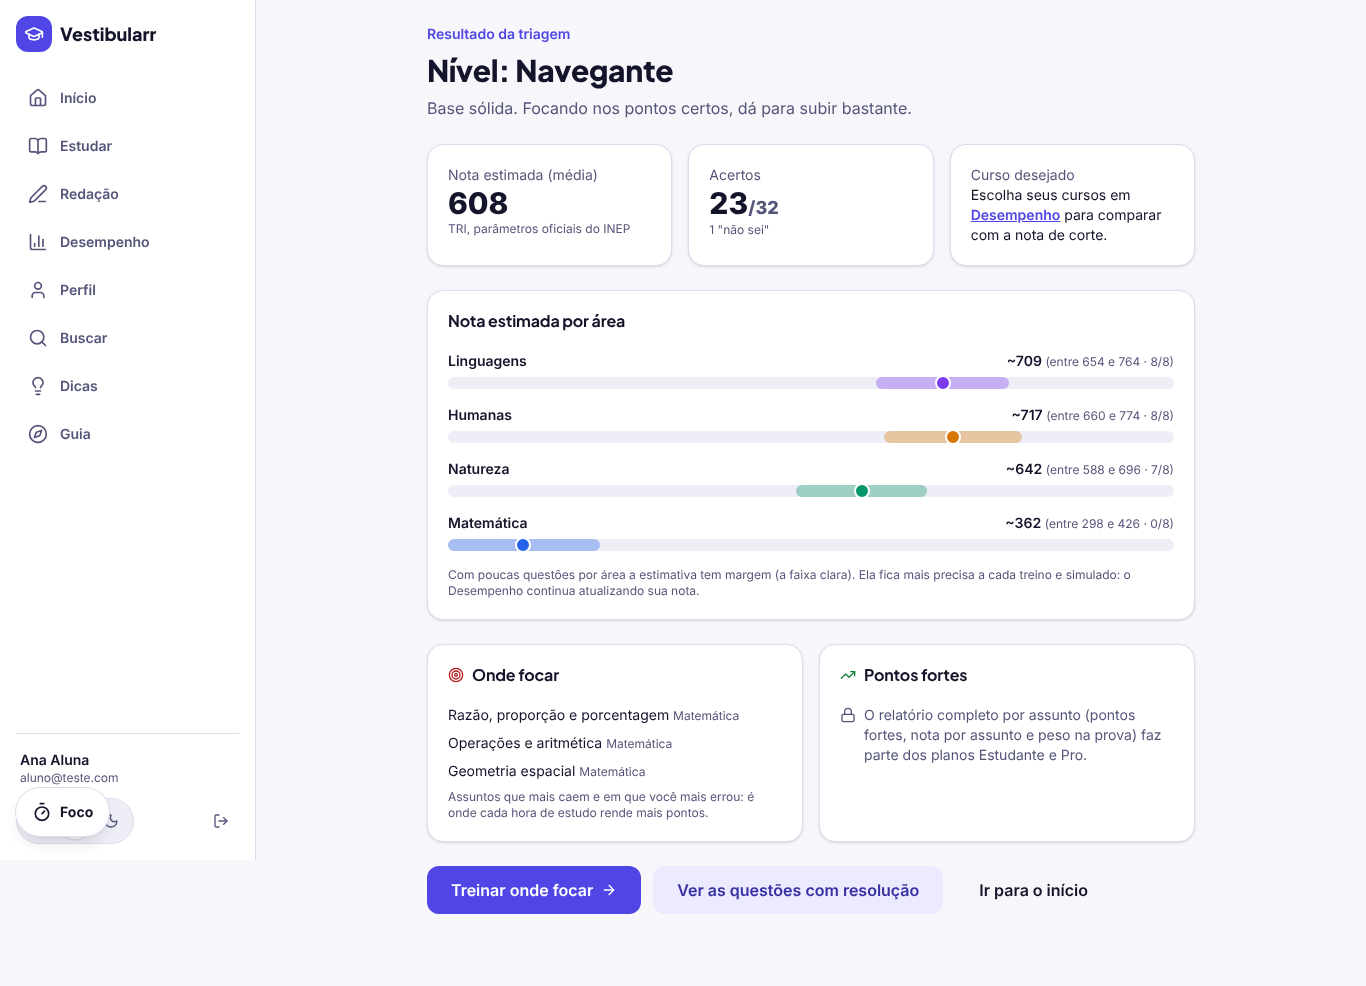
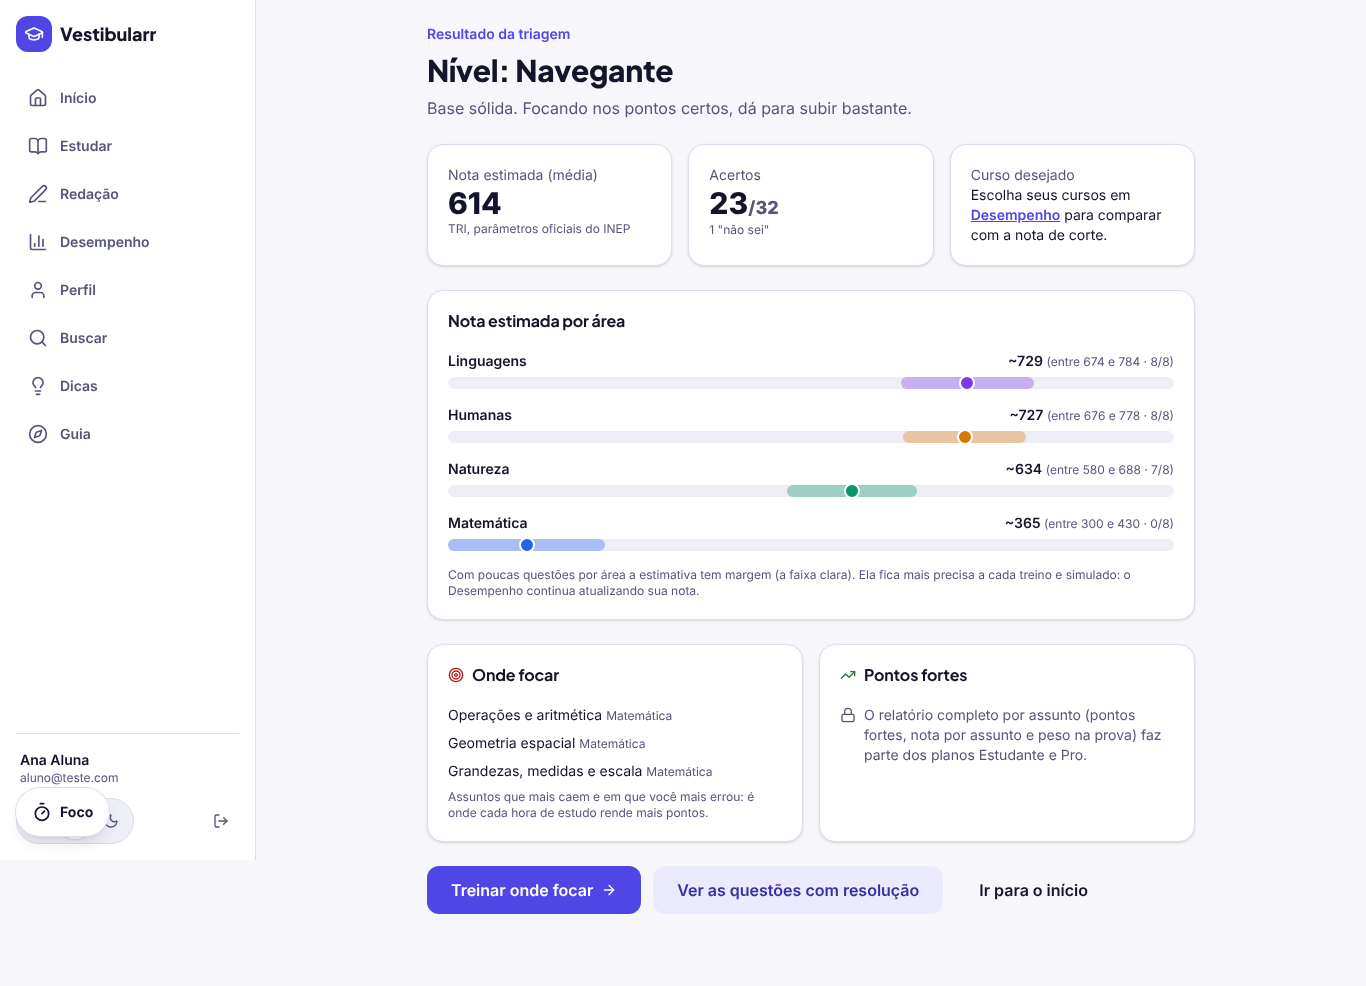
Triagem: não cria nem cobra sem questões calibradas; encerrar sem responder descarta e devolve a cota
- migration 0013: _triagem_available(); triagem_start recusa com triagem_unavailable antes de criar/cobrar;
  triagem_finish sem respostas apaga a tentativa e devolve a cota; limpa triagens vazias já criadas (caso 0/0)
- /triagem avisa quando falta rodar seed:taxonomia; relatório vazio volta para a introdução
- verificar-migracoes.sql também mostra 0013 e quantas questões têm TRI

Claude-Session: https://claude.ai/code/session_01PfeMCgtAxDrZkpFiVMEZAu

diff --git a/src/app/(app)/triagem/page.tsx b/src/app/(app)/triagem/page.tsx
@@ -4,6 +4,7 @@ import Link from "next/link";
 import { Button } from "@/components/ui/button";
 import { Card, CardContent, CardHeader, CardTitle } from "@/components/ui/card";
 import { requireUser } from "@/lib/auth";
+import { createClient } from "@/lib/supabase/server";
 import { getEntitlement, listTriagens } from "@/lib/triagem";
 import { skipTriagemAction, startTriagemAction } from "./actions";
 
@@ -14,10 +15,12 @@ const fmt = (iso: string) => new Date(iso).toLocaleDateString("pt-BR", { day: "2
 export default async function TriagemPage({ searchParams }: { searchParams: Promise<{ erro?: string }> }) {
   const user = await requireUser();
   const { erro } = await searchParams;
-  const [history, ent] = await Promise.all([listTriagens(), getEntitlement("triagem")]);
+  const supabase = await createClient();
+  const [history, ent, { data: available }] = await Promise.all([listTriagens(), getEntitlement("triagem"), supabase.rpc("_triagem_available")]);
   const open = history.find((h) => h.status === "in_progress");
   const done = history.filter((h) => h.status === "finished");
-  const canStart = !!open || !ent || ent.unlimited || (ent.remaining ?? 0) > 0;
+  const ready = available !== false;
+  const canStart = !!open || (ready && (!ent || ent.unlimited || (ent.remaining ?? 0) > 0));
   const first = done.length === 0;
 
   return (
@@ -33,6 +36,12 @@ export default async function TriagemPage({ searchParams }: { searchParams: Prom
       {erro === "limite" && (
         <p role="alert" className="rounded-control bg-warning-soft p-3 text-sm text-warning-soft-foreground">
           Você já usou a triagem deste mês no seu plano. A próxima libera {ent?.resets_at ? `em ${fmt(ent.resets_at)}` : "no mês que vem"}.
+        </p>
+      )}
+      {(erro === "indisponivel" || (!ready && !open)) && (
+        <p role="alert" className="rounded-control bg-warning-soft p-3 text-sm text-warning-soft-foreground">
+          A triagem ainda não está disponível: o banco de questões precisa dos dados da TRI.
+          {user.role === "admin" ? " Rode npm run seed:taxonomia (README → Banco de questões)." : " Avise o administrador."}
         </p>
       )}
       {erro === "falha" && <p role="alert" className="rounded-control bg-danger-soft p-3 text-sm text-danger-soft-foreground">Não foi possível começar agora. Tente de novo.</p>}
@@ -51,7 +60,7 @@ export default async function TriagemPage({ searchParams }: { searchParams: Prom
             <Button type="submit" size="lg" className="w-full sm:w-auto">{open ? "Continuar a triagem" : first ? "Começar a triagem" : "Refazer a triagem"}</Button>
           </form>
         ) : (
-          <Button size="lg" disabled>Triagem do mês já usada</Button>
+          <Button size="lg" disabled>{ready ? "Triagem do mês já usada" : "Triagem indisponível"}</Button>
         )}
         {first && user.role === "student" && (
           <form action={skipTriagemAction}>

diff --git a/tests/db/triagem.test.ts b/tests/db/triagem.test.ts
@@ -96,12 +96,36 @@ describe("triagem adaptativa", () => {
     expect(score).toMatchObject({ total: 2, correct: 1, blank: 1 });
   });
 
+  it("encerrar sem responder nada descarta a triagem e devolve a cota", async () => {
+    const id = await one(caio, "select public.triagem_start() r");
+    const used = async () => (await c.query("select count(*)::int n from usage_events where user_id = $1 and feature = 'triagem'", [caio])).rows[0].n;
+    expect(await used()).toBe(1);
+    expect(await one(caio, "select public.triagem_finish($1) r", [id])).toMatchObject({ status: "discarded" });
+    expect(await used()).toBe(0);
+    expect((await c.query("select count(*)::int n from exam_attempts where id = $1", [id])).rows[0].n).toBe(0);
+  });
+
   it("plano grátis: 1 triagem por mês", async () => {
     const id = await one(caio, "select public.triagem_start() r");
+    const s = await state(caio, id);
+    await one(caio, "select public.triagem_answer($1, $2, 'A') r", [id, s.question_id]);
     await one(caio, "select public.triagem_finish($1) r", [id]);
     await expect(callAs(c, caio, "select public.triagem_start()")).rejects.toThrow(/plan_limit:triagem/);
     const rep = await one(caio, "select public.entitlement('triagem_report') r");
     expect(rep.quota).toBe(0);
+  });
+
+  it("sem questões calibradas (TRI) no banco: recusa antes de criar e de cobrar", async () => {
+    const dani = await createUser(c, "dani@x.com");
+    await c.query("alter table questions add column if not exists irt_b_bak real; update questions set irt_b_bak = irt_b, irt_b = null");
+    try {
+      expect(await one(dani, "select public._triagem_available() r")).toBe(false);
+      await expect(callAs(c, dani, "select public.triagem_start()")).rejects.toThrow(/triagem_unavailable/);
+      const n = (await c.query("select (select count(*) from exam_attempts where user_id = $1)::int a, (select count(*) from usage_events where user_id = $1)::int u", [dani])).rows[0];
+      expect(n).toEqual({ a: 0, u: 0 });
+    } finally {
+      await c.query("update questions set irt_b = irt_b_bak; alter table questions drop column irt_b_bak");
+    }
   });
 
   it("só o dono vê o estado", async () => {

diff --git a/src/app/(app)/triagem/actions.ts b/src/app/(app)/triagem/actions.ts
@@ -13,7 +13,7 @@ const UUID = /^[0-9a-f-]{36}$/i;
 export async function startTriagemAction() {
   await requireUser();
   const { data, error } = await (await createClient()).rpc("triagem_start");
-  if (error) redirect(error.message.includes("plan_limit:triagem") ? "/triagem?erro=limite" : "/triagem?erro=falha");
+  if (error) redirect(error.message.includes("plan_limit:triagem") ? "/triagem?erro=limite" : error.message.includes("triagem_unavailable") ? "/triagem?erro=indisponivel" : "/triagem?erro=falha");
   redirect(`/triagem/${data}`);
 }
 
@@ -43,8 +43,9 @@ export async function answerTriagemAction(id: string, questionId: string, choice
 export async function finishTriagemAction(id: string) {
   await requireUser();
   if (!UUID.test(id)) return;
-  await (await createClient()).rpc("triagem_finish", { p_attempt: id });
-  redirect(`/triagem/${id}/relatorio`);
+  const { data } = await (await createClient()).rpc("triagem_finish", { p_attempt: id });
+  // sem nenhuma resposta a triagem é descartada (e a cota devolvida)
+  redirect((data as { status?: string } | null)?.status === "discarded" ? "/triagem" : `/triagem/${id}/relatorio`);
 }
 
 /** Treino com os assuntos de "Onde focar" (15 questões, gabarito na hora). */

diff --git a/src/lib/triagem.ts b/src/lib/triagem.ts
@@ -27,7 +27,9 @@ export async function listTriagens() {
     .eq("mode", "triagem")
     .order("started_at", { ascending: false })
     .limit(12);
-  return (data ?? []) as { id: string; status: string; started_at: string; finished_at: string | null; score: { total: number; correct: number } | null }[];
+  type Row = { id: string; status: string; started_at: string; finished_at: string | null; score: { total: number; correct: number } | null };
+  // encerradas sem nenhuma questão não contam (não deveriam existir; ver migration 0013)
+  return ((data ?? []) as Row[]).filter((t) => t.status !== "finished" || (t.score?.total ?? 0) > 0);
 }
 
 type QRow = {

diff --git a/src/app/(app)/triagem/[id]/relatorio/page.tsx b/src/app/(app)/triagem/[id]/relatorio/page.tsx
@@ -24,6 +24,7 @@ export default async function TriagemReportPage({ params }: { params: Promise<{ 
   const report = await triagemReport(id);
   if (!report) notFound();
   if (report.attempt.status === "in_progress") redirect(`/triagem/${id}`);
+  if ((report.attempt.score?.total ?? 0) === 0) redirect("/triagem");
 
   const supabase = await createClient();
   const [detail, { data: profile }] = await Promise.all([
